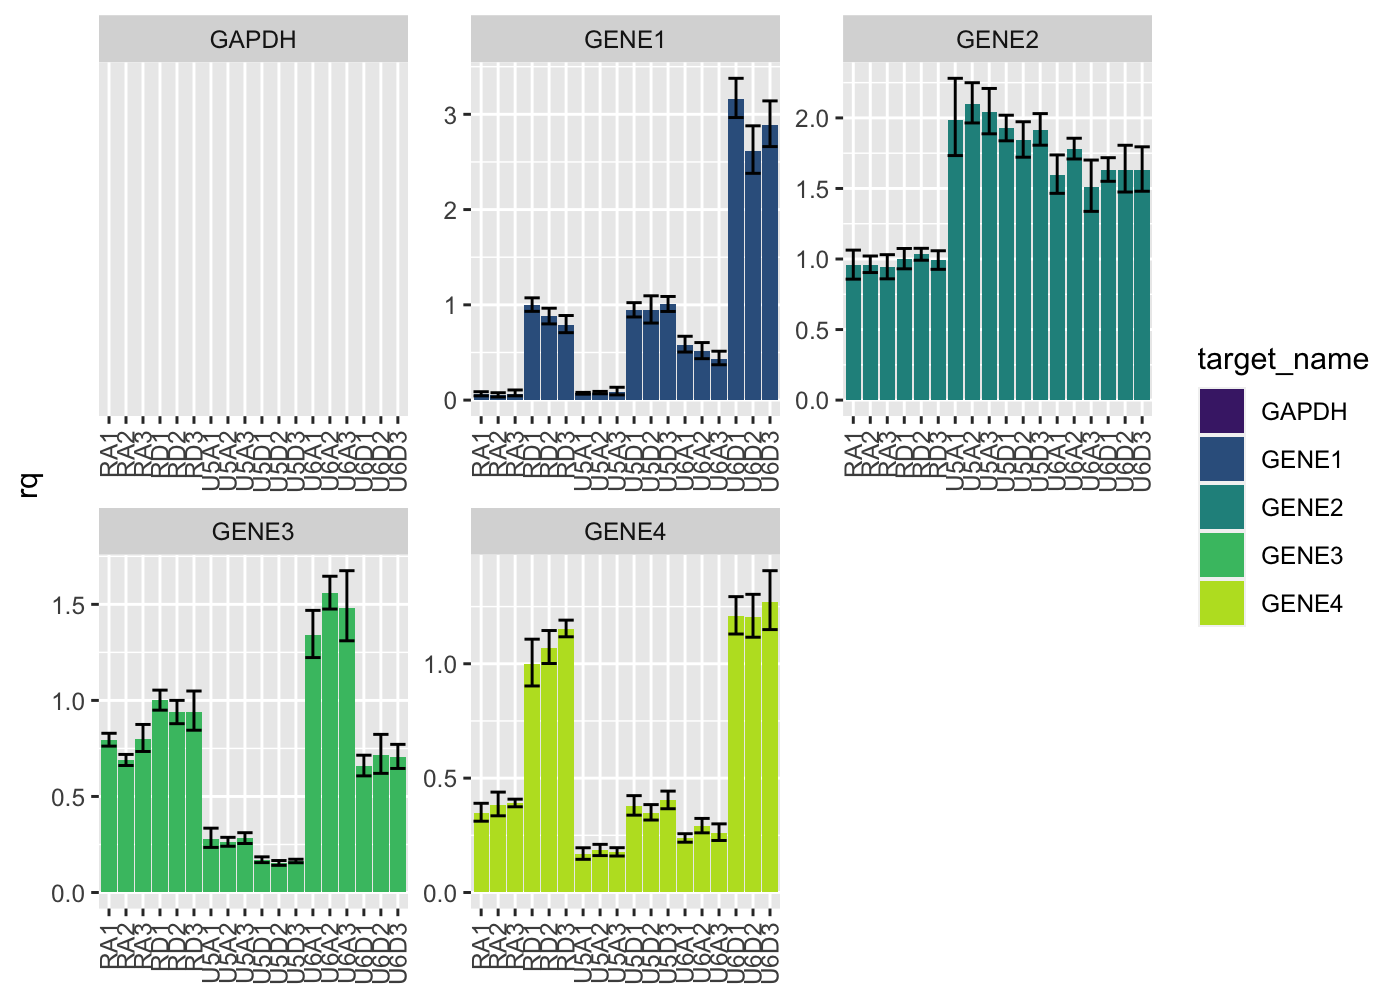
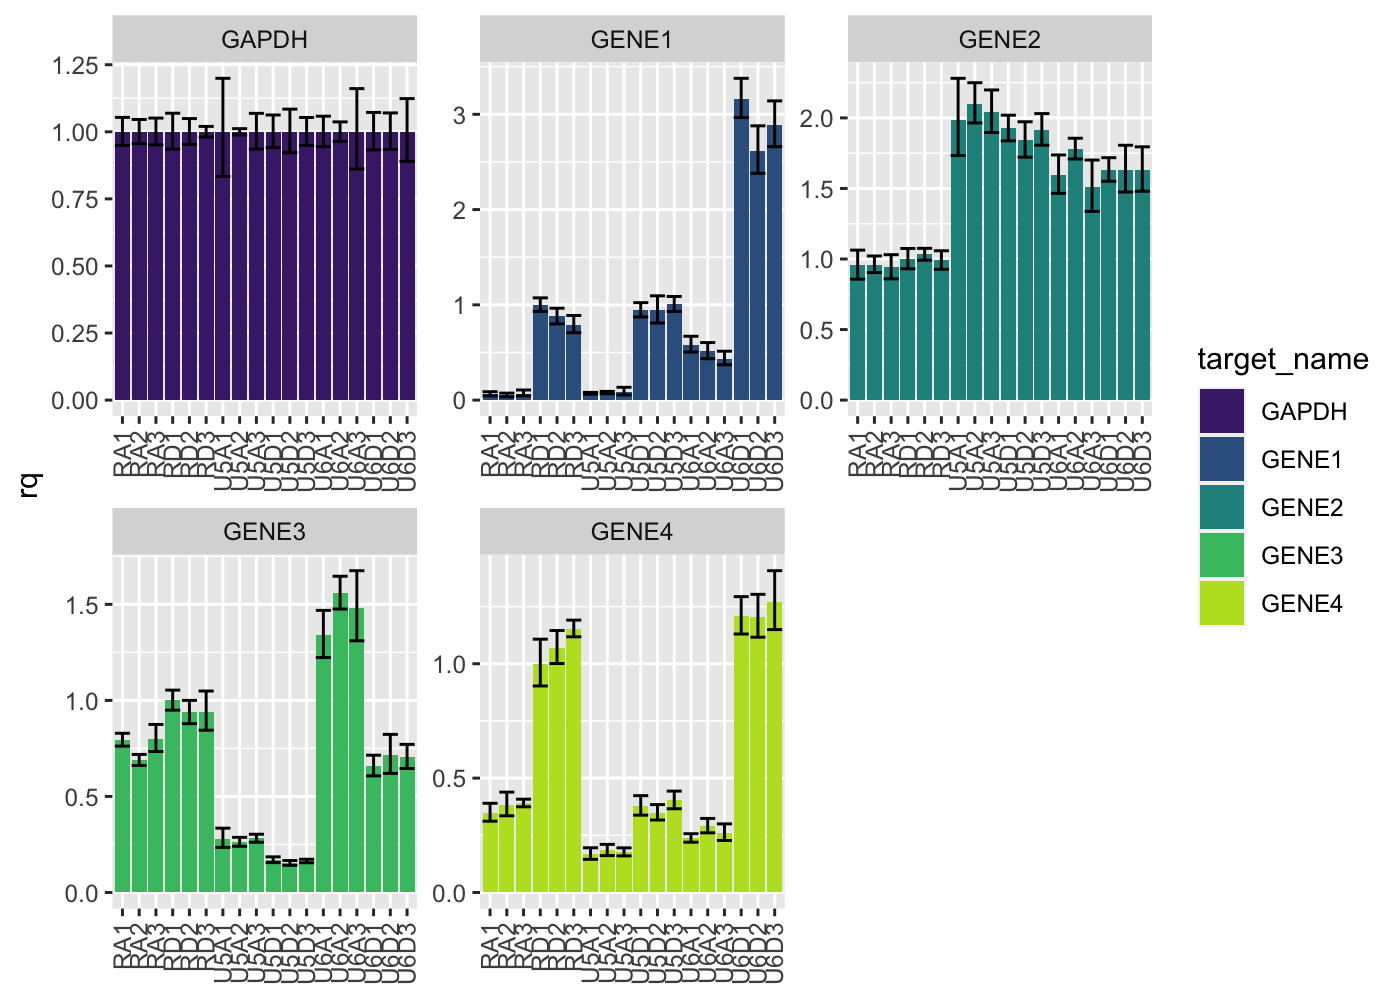
update readme

Changed region(s): [[0.0307, 0.0, 0.8293, 0.992]]

diff --git a/README.md b/README.md
@@ -85,8 +85,8 @@ Tidied results can be plotted using `pcr_plot`
 
 ``` r
 tidy_pcr |> 
+  pcr_rq("RD1") |> 
   pcr_plot()
-#> Warning: Removed 18 rows containing missing values (position_stack).
 ```
 
 <img src="man/figures/README-pcr_plot-1.png" width="100%" />
@@ -157,97 +157,58 @@ quantification run by first using `pcr_lib_qc`:
 ``` r
 qc <- calc_lib |> 
   pcr_lib_qc()
-qc
+lapply(qc, head, n = 3)
 #> $standards
-#> # A tibble: 13 × 19
-#> # Groups:   sample_name [5]
-#>    sample_name task     quantity_mean concentration quantity quant_actual   dil
-#>    <chr>       <chr>            <dbl>         <dbl>    <dbl>        <dbl> <dbl>
-#>  1 Standard 01 STANDARD            NA            NA 6.80         6.80      0   
-#>  2 Standard 01 STANDARD            NA            NA 6.80         6.80      0   
-#>  3 Standard 01 STANDARD            NA            NA 6.80         6.80      0   
-#>  4 Standard 02 STANDARD            NA            NA 0.680        0.734     9.27
-#>  5 Standard 02 STANDARD            NA            NA 0.680        0.734     9.27
-#>  6 Standard 03 STANDARD            NA            NA 0.0680       0.0603   12.2 
-#>  7 Standard 03 STANDARD            NA            NA 0.0680       0.0603   12.2 
-#>  8 Standard 03 STANDARD            NA            NA 0.0680       0.0603   12.2 
-#>  9 Standard 04 STANDARD            NA            NA 0.00680      0.00568  10.6 
-#> 10 Standard 04 STANDARD            NA            NA 0.00680      0.00568  10.6 
-#> 11 Standard 04 STANDARD            NA            NA 0.00680      0.00568  10.6 
-#> 12 Standard 05 STANDARD            NA            NA 0.000680     0.000417 13.6 
-#> 13 Standard 05 STANDARD            NA            NA 0.000680     0.000417 13.6 
+#> # A tibble: 3 × 19
+#> # Groups:   sample_name [1]
+#>   sample_name task     quantity_mean concentration quantity quant_actual   dil
+#>   <chr>       <chr>            <dbl>         <dbl>    <dbl>        <dbl> <dbl>
+#> 1 Standard 01 STANDARD            NA            NA     6.80         6.80     0
+#> 2 Standard 01 STANDARD            NA            NA     6.80         6.80     0
+#> 3 Standard 01 STANDARD            NA            NA     6.80         6.80     0
 #> # … with 12 more variables: slope <dbl>, efficiency <dbl>, r2 <dbl>, ct <dbl>,
 #> #   no_po_mean <dbl>, no_po_sd <dbl>, keep <lgl>, keep_temp <lgl>,
 #> #   mean_adj <dbl>, sd_adj <dbl>, quant_adj <dbl>, z <dbl>
 #> 
 #> $samples
-#> # A tibble: 42 × 19
-#> # Groups:   sample_name [16]
-#>    sample_name task    quantity_mean concentration quantity quant_actual   dil
-#>    <chr>       <chr>           <dbl>         <dbl>    <dbl>        <dbl> <dbl>
-#>  1 Sample 06   UNKNOWN          2.04         2039.     2.06         2.06    NA
-#>  2 Sample 06   UNKNOWN          2.04         2039.     2.12         2.12    NA
-#>  3 Sample 06   UNKNOWN          2.04         2039.     1.94         1.94    NA
-#>  4 Sample 12   UNKNOWN          1.89         1893.     1.93         1.93    NA
-#>  5 Sample 12   UNKNOWN          1.89         1893.     1.88         1.88    NA
-#>  6 Sample 12   UNKNOWN          1.89         1893.     1.87         1.87    NA
-#>  7 Sample 04   UNKNOWN          1.69         1694.     1.62         1.62    NA
-#>  8 Sample 04   UNKNOWN          1.69         1694.     1.84         1.84    NA
-#>  9 Sample 04   UNKNOWN          1.69         1694.     1.62         1.62    NA
-#> 10 Sample 16   UNKNOWN          1.49         1493.     1.46         1.46    NA
-#> # … with 32 more rows, and 12 more variables: slope <dbl>, efficiency <dbl>,
-#> #   r2 <dbl>, ct <dbl>, no_po_mean <dbl>, no_po_sd <dbl>, keep <lgl>,
-#> #   keep_temp <lgl>, mean_adj <dbl>, sd_adj <dbl>, quant_adj <dbl>, z <dbl>
+#> # A tibble: 3 × 19
+#> # Groups:   sample_name [1]
+#>   sample_name task    quantity_mean concentration quantity quant_actual   dil
+#>   <chr>       <chr>           <dbl>         <dbl>    <dbl>        <dbl> <dbl>
+#> 1 Sample 06   UNKNOWN          2.04         2039.     2.06         2.06    NA
+#> 2 Sample 06   UNKNOWN          2.04         2039.     2.12         2.12    NA
+#> 3 Sample 06   UNKNOWN          2.04         2039.     1.94         1.94    NA
+#> # … with 12 more variables: slope <dbl>, efficiency <dbl>, r2 <dbl>, ct <dbl>,
+#> #   no_po_mean <dbl>, no_po_sd <dbl>, keep <lgl>, keep_temp <lgl>,
+#> #   mean_adj <dbl>, sd_adj <dbl>, quant_adj <dbl>, z <dbl>
 #> 
 #> $sample_summary
-#> # A tibble: 16 × 3
-#>    sample_name quantity_mean quant_adj
-#>    <chr>               <dbl>     <dbl>
-#>  1 Sample 01           0.599     0.599
-#>  2 Sample 02           1.05      1.05 
-#>  3 Sample 03           1.37      1.39 
-#>  4 Sample 04           1.69      1.62 
-#>  5 Sample 05           0.903     0.888
-#>  6 Sample 06           2.04      2.09 
-#>  7 Sample 07           1.13      1.15 
-#>  8 Sample 08           1.09      1.09 
-#>  9 Sample 09           1.22      1.22 
-#> 10 Sample 10           1.07      1.07 
-#> 11 Sample 11           1.03      1.03 
-#> 12 Sample 12           1.89      1.87 
-#> 13 Sample 13           0.583     0.583
-#> 14 Sample 14           1.22      1.17 
-#> 15 Sample 15           0.713     0.713
-#> 16 Sample 16           1.49      1.42 
+#> # A tibble: 3 × 3
+#>   sample_name quantity_mean quant_adj
+#>   <chr>               <dbl>     <dbl>
+#> 1 Sample 01           0.599     0.599
+#> 2 Sample 02           1.05      1.05 
+#> 3 Sample 03           1.37      1.39 
 #> 
 #> $standard_summary
-#> # A tibble: 5 × 4
+#> # A tibble: 3 × 4
 #>   sample_name   dil quantity_mean quant_actual
 #>   <chr>       <dbl>         <dbl>        <dbl>
-#> 1 Standard 01  0         6.80         6.80    
-#> 2 Standard 02  9.27      0.680        0.734   
-#> 3 Standard 03 12.2       0.0680       0.0603  
-#> 4 Standard 04 10.6       0.00680      0.00568 
-#> 5 Standard 05 13.6       0.000680     0.000417
+#> 1 Standard 01  0           6.80         6.80  
+#> 2 Standard 02  9.27        0.680        0.734 
+#> 3 Standard 03 12.2         0.0680       0.0603
 #> 
 #> $outliers
-#> # A tibble: 58 × 19
-#> # Groups:   sample_name [22]
-#>    sample_name task     quantity_mean concentration quantity quant_actual   dil
-#>    <chr>       <chr>            <dbl>         <dbl>    <dbl>        <dbl> <dbl>
-#>  1 Standard 01 STANDARD         NA              NA      6.80         6.80     0
-#>  2 Standard 01 STANDARD         NA              NA      6.80         6.80     0
-#>  3 Standard 01 STANDARD         NA              NA      6.80         6.80     0
-#>  4 Sample 06   UNKNOWN           2.04         2039.     2.06         2.06    NA
-#>  5 Sample 06   UNKNOWN           2.04         2039.     2.12         2.12    NA
-#>  6 Sample 06   UNKNOWN           2.04         2039.     1.94         1.94    NA
-#>  7 Sample 12   UNKNOWN           1.89         1893.     1.93         1.93    NA
-#>  8 Sample 12   UNKNOWN           1.89         1893.     1.88         1.88    NA
-#>  9 Sample 12   UNKNOWN           1.89         1893.     1.87         1.87    NA
-#> 10 Sample 04   UNKNOWN           1.69         1694.     1.62         1.62    NA
-#> # … with 48 more rows, and 12 more variables: slope <dbl>, efficiency <dbl>,
-#> #   r2 <dbl>, ct <dbl>, no_po_mean <dbl>, no_po_sd <dbl>, keep <lgl>,
-#> #   keep_temp <lgl>, mean_adj <dbl>, sd_adj <dbl>, quant_adj <dbl>, z <dbl>
+#> # A tibble: 3 × 19
+#> # Groups:   sample_name [1]
+#>   sample_name task     quantity_mean concentration quantity quant_actual   dil
+#>   <chr>       <chr>            <dbl>         <dbl>    <dbl>        <dbl> <dbl>
+#> 1 Standard 01 STANDARD            NA            NA     6.80         6.80     0
+#> 2 Standard 01 STANDARD            NA            NA     6.80         6.80     0
+#> 3 Standard 01 STANDARD            NA            NA     6.80         6.80     0
+#> # … with 12 more variables: slope <dbl>, efficiency <dbl>, r2 <dbl>, ct <dbl>,
+#> #   no_po_mean <dbl>, no_po_sd <dbl>, keep <lgl>, keep_temp <lgl>,
+#> #   mean_adj <dbl>, sd_adj <dbl>, quant_adj <dbl>, z <dbl>
 ```
 
 These data, by themselves, are not particularly useful. However, a suite
